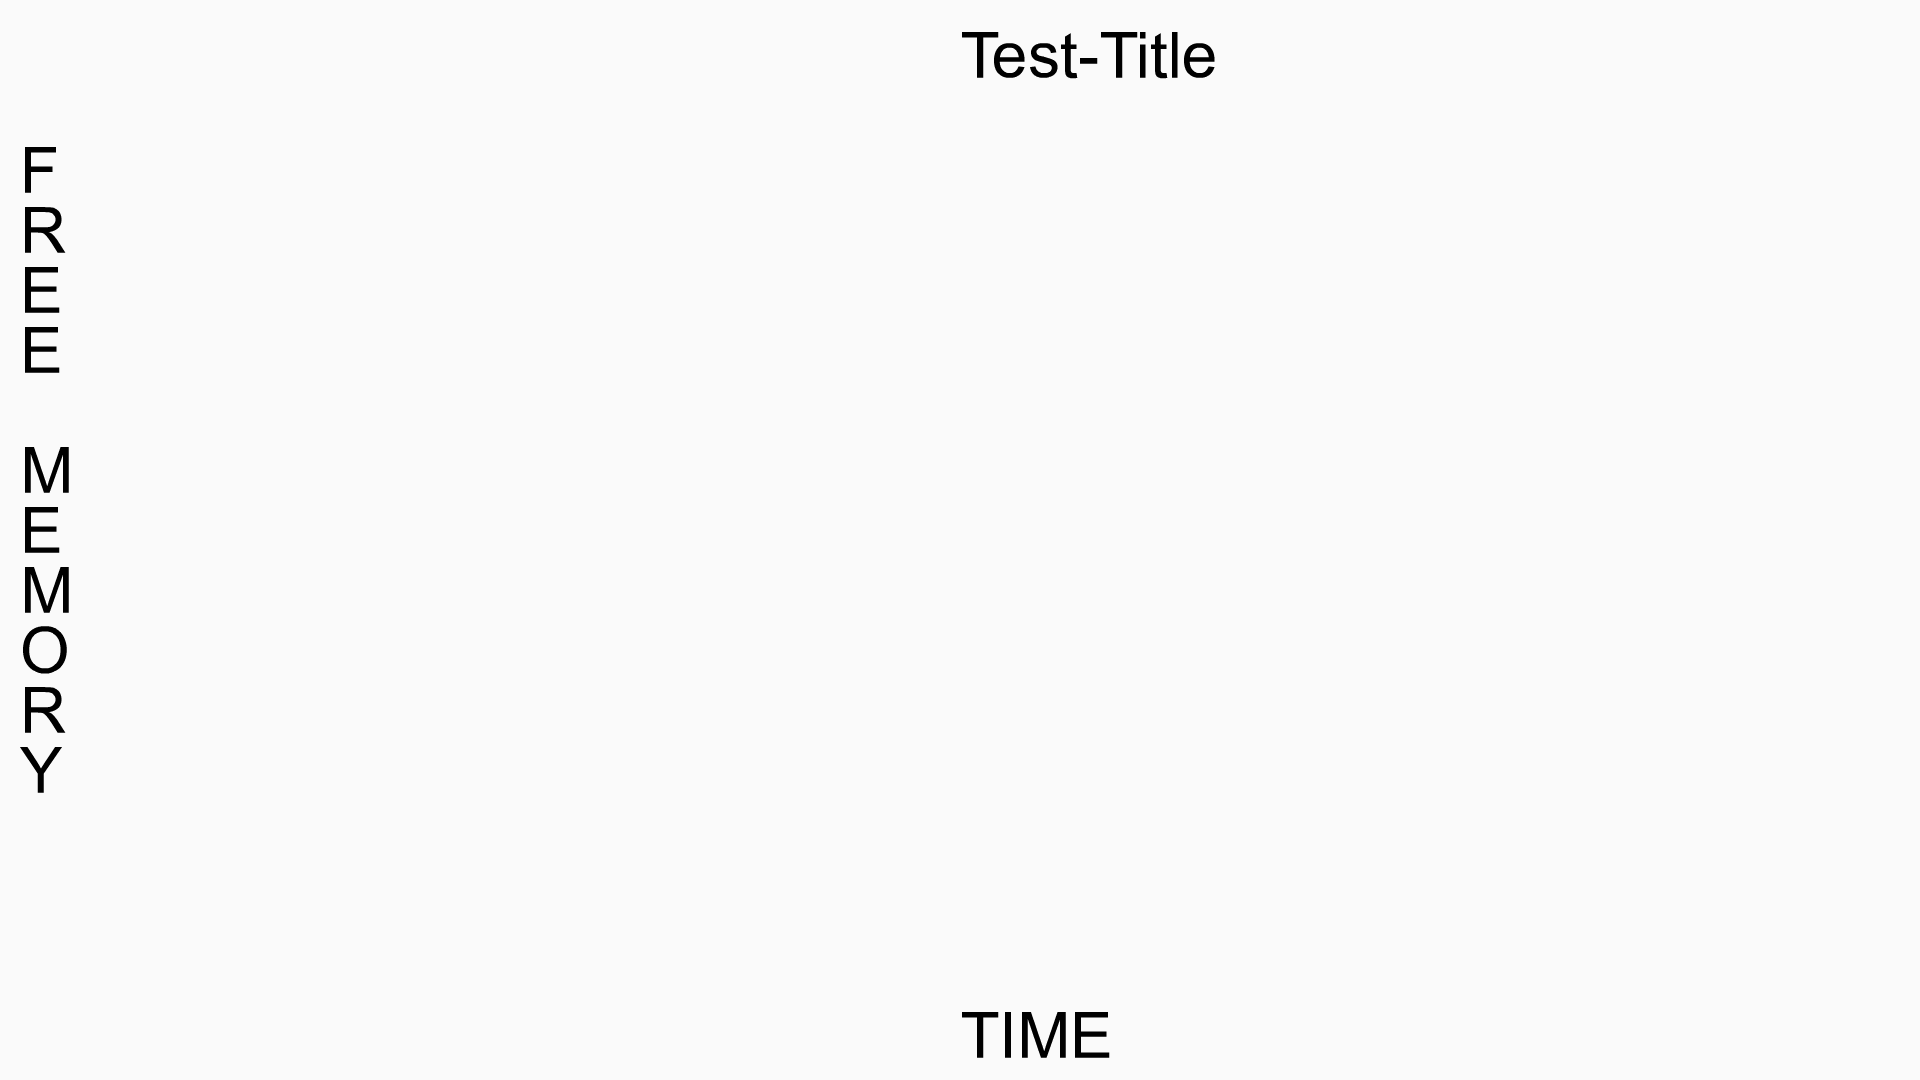
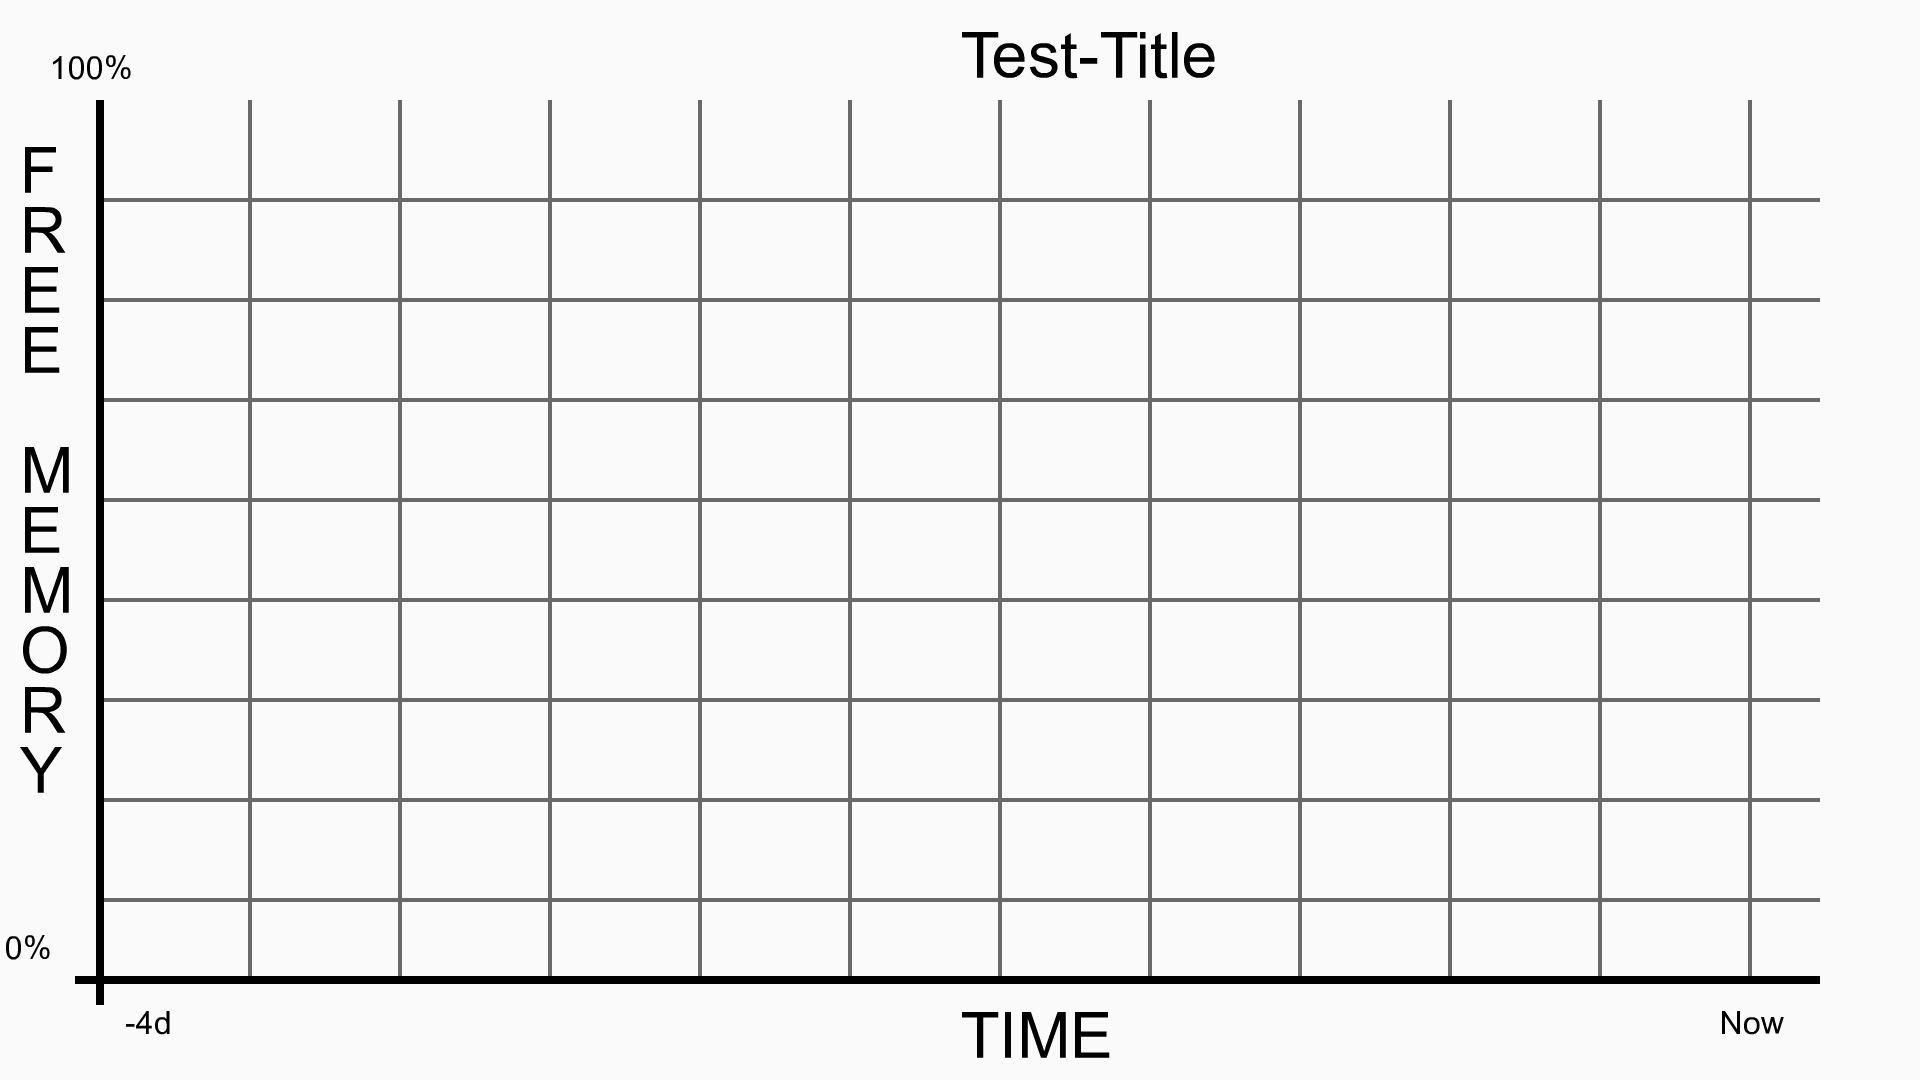
Almost done with drawing graphs, only the graph is missing

Changed region(s): [[0.0, 0.0306, 0.9375, 0.9167], [0.9062, 0.9472, 0.9375, 0.9778], [0.0625, 0.9472, 0.0938, 0.9778]]

diff --git a/lib/graph.js b/lib/graph.js
@@ -6,23 +6,49 @@
 //Dependencies
 const config = require('./../config.js');
 const Jimp = require('jimp');
+const log = require('./log.js');
 //Create the container
 var graph = {};
 
+//Draw vertical lines
+graph.drawLine = function (start_x, start_y, end_x, end_y, thiccness, color, pixels) {
+    //Find out if the line is vertical or horizontal
+    if (start_x == end_x) {
+        //We are vertical
+        for (let x = start_y; x < end_y; x++) {
+            for (let y = start_x - thiccness / 2; y < start_x + thiccness / 2; y++) {
+                pixels[x][y] = color;
+            }
+        }
+    } else {
+        //Check if we are horizontal
+        if (start_y == end_y) {
+            //We are horizontal
+            for (let y = start_y - thiccness / 2; y < start_y + thiccness / 2; y++) {
+                for (let x = start_x; x < end_x; x++) {
+                    pixels[y][x] = color;
+                }
+            }
+        } else {
+            //Wrong input
+            log.write(2, 'Graph.js: Wrong input for drawLine', {
+                start_x: start_x,
+                start_y: start_y,
+                end_x: end_x,
+                end_y: end_y
+            }, function (err) { });
+        }
+    }
+    return pixels;
+};
+
 //Create a graph
-graph.create = function (res_x, res_y, title, legend_x, legend_y, scale_x, scale_y, scale_res_x, res_scale_y, data, callback) {
+graph.create = function (res_x, res_y, title, legend_x, legend_y, scale_x, scale_y, scale_res_x, scale_res_y, min_value_x, min_value_y, max_value_x, max_value_y, data, callback) {
     var fileName = title + '.png';
 
-    let imageData = [];
-    for (var x = 0; x < 255; x++) {
-        var row = [];
-        for (var y = 0; y < 255; y++) {
-            row.push(Jimp.rgbaToInt(y, x, y, 255));
-        }
-        imageData.push(row);
-        row = [];
-    }
-    let image = new Jimp(res_x, res_y, 0xfafafaff, function (err, image) {
+    var imageData = Array.from(Array(res_x), () => new Array(res_y));
+    
+    var image = new Jimp(res_x, res_y, 0xfafafaff, function (err, image) {
         if (err) console.log(err);
         //Load the font
         Jimp.loadFont(Jimp.FONT_SANS_64_BLACK)
@@ -36,20 +62,48 @@ graph.create = function (res_x, res_y, title, legend_x, legend_y, scale_x, scale
                     image.print(font, 20, start_y + (i * 60), legend_y[i]);
                 }
 
-                //Print title
+                //Print legend_x
                 image.print(font, res_x / 2, res_y - 80, legend_x);
 
-                //Draw outline
+                Jimp.loadFont(Jimp.FONT_SANS_32_BLACK)
+                    .then(font => {
+                        //Print max_value_y
+                        image.print(font, 50, 50, max_value_y);
 
-                //imageData.forEach((row, y) => {
-                //    row.forEach((color, x) => {
-                //        image.setPixelColor(color, x, y);
-                //    });
-                //});
+                        //Print min_value_y
+                        image.print(font, 5, res_y - 150, min_value_y);
 
-                image.write('temp/' + fileName, (err) => {
-                    if (err) console.log(err);
-                });
+                        //Print min_value_x
+                        image.print(font, 125, res_y - 75, min_value_x);
+
+                        //Print max_value_x
+                        image.print(font, res_x - 200, res_y - 75, max_value_x);
+
+                        //Draw the scale lines on the x axis
+                        for (let i = 100 + scale_res_x; i < res_x - 100; i += scale_res_x) {
+                            imageData = graph.drawLine(i, 100, i, res_y - 100, 4, 0x696969ff, imageData);
+                        }
+                        //Draw the scale lines on the y axis
+                        for (let i = 100 + scale_res_y; i < res_y - 100; i += scale_res_y) {
+                            imageData = graph.drawLine(100, i, res_x - 100, i, 4, 0x696969ff, imageData);
+                        }
+
+                        //Draw vertical outline
+                        imageData = graph.drawLine(100, 100, 100, res_y - 75, 8, 0x000000ff, imageData);
+
+                        //Draw horizontal outline
+                        imageData = graph.drawLine(75, res_y - 100, res_x - 100, res_y - 100, 8, 0x000000ff, imageData);
+
+                        imageData.forEach((row, y) => {
+                            row.forEach((color, x) => {
+                                image.setPixelColor(color, x, y);
+                            });
+                        });
+
+                        image.write('temp/' + fileName, (err) => {
+                            if (err) console.log(err);
+                        });
+                    });
             });
     });
 

diff --git a/discord-bot/commands/admin.js b/discord-bot/commands/admin.js
@@ -2,6 +2,9 @@
  *	COMMAND FILE FOR ADMIN COMMANDS
  *	Command for all the admin thingys
  */
+
+//FIX: you need to send the command twice to get the up to date image
+
 const graph = require('./../../lib/graph.js');
 const fs = require('fs');
 const log = require('./../../lib/log.js');
@@ -16,7 +19,7 @@ module.exports = {
         //Performance graphs?
         if (args[0] == 'performance') {
             //Hand all the data to the graph file
-            graph.create(1920, 1080, 'Test-Title', 'TIME', 'FREE MEMORY', 1000, 500, 100, 100, [100, 200, 300, 400, 500, 600, 500, 400, 300, 200, 100, 0, 50, 1000, 1100], function (fileName) {
+            graph.create(1920, 1080, 'Test-Title', 'TIME', 'FREE MEMORY', 1000, 500, 150, 100, '-4d', '0%', 'Now', '100%', [100, 200, 300, 400, 500, 600, 500, 400, 300, 200, 100, 0, 50, 1000, 1100], function (fileName) {
                 var filePath = 'temp/' + fileName;
                 //Send the image
                 message.channel.send({
